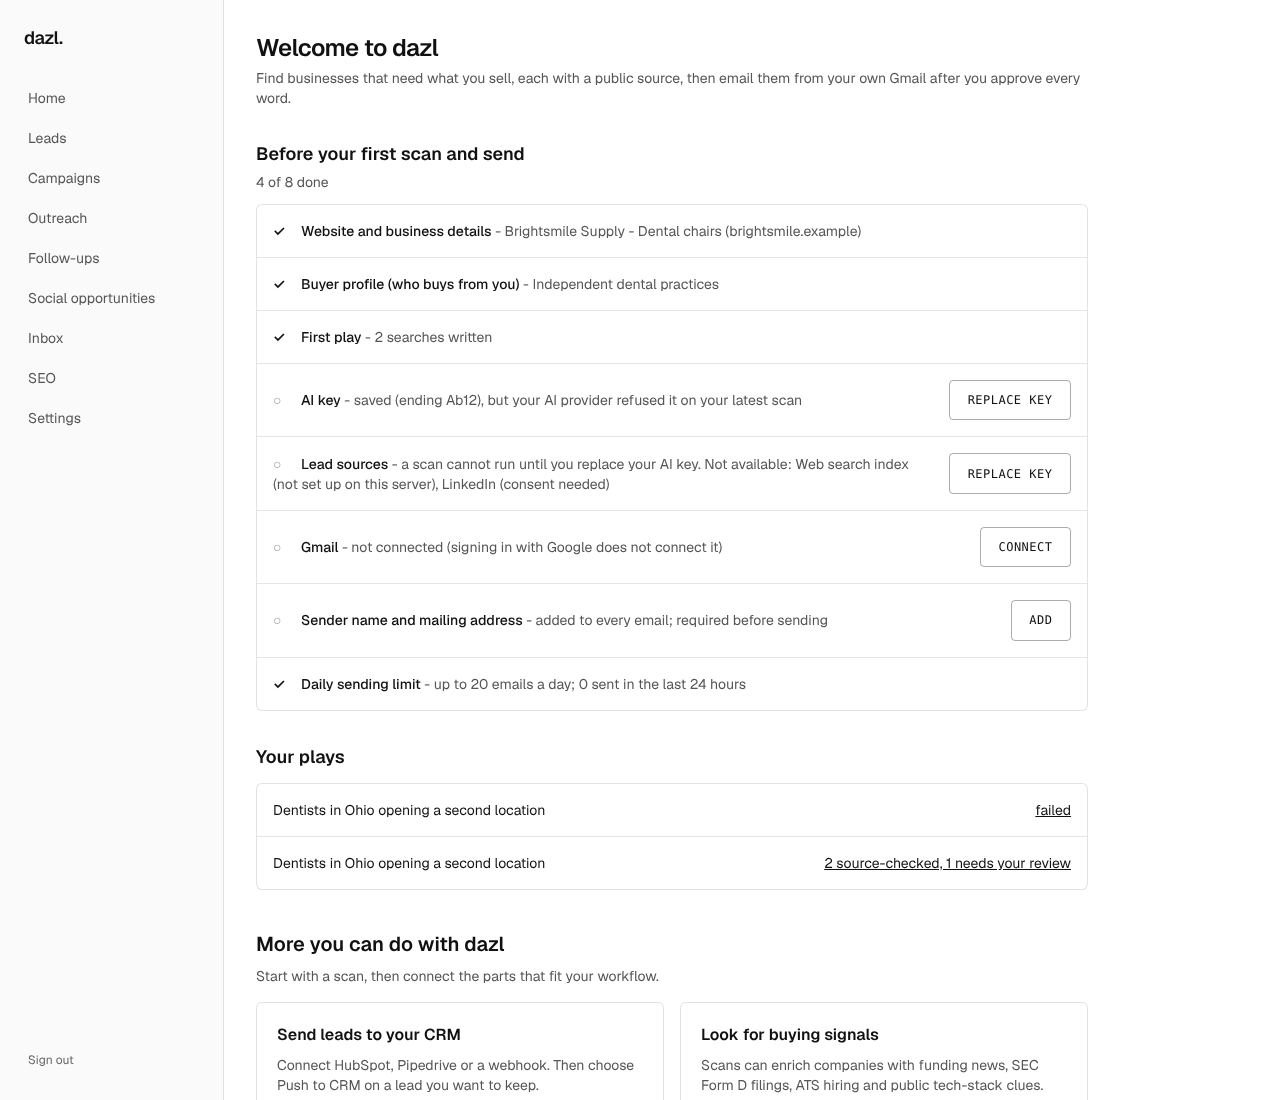
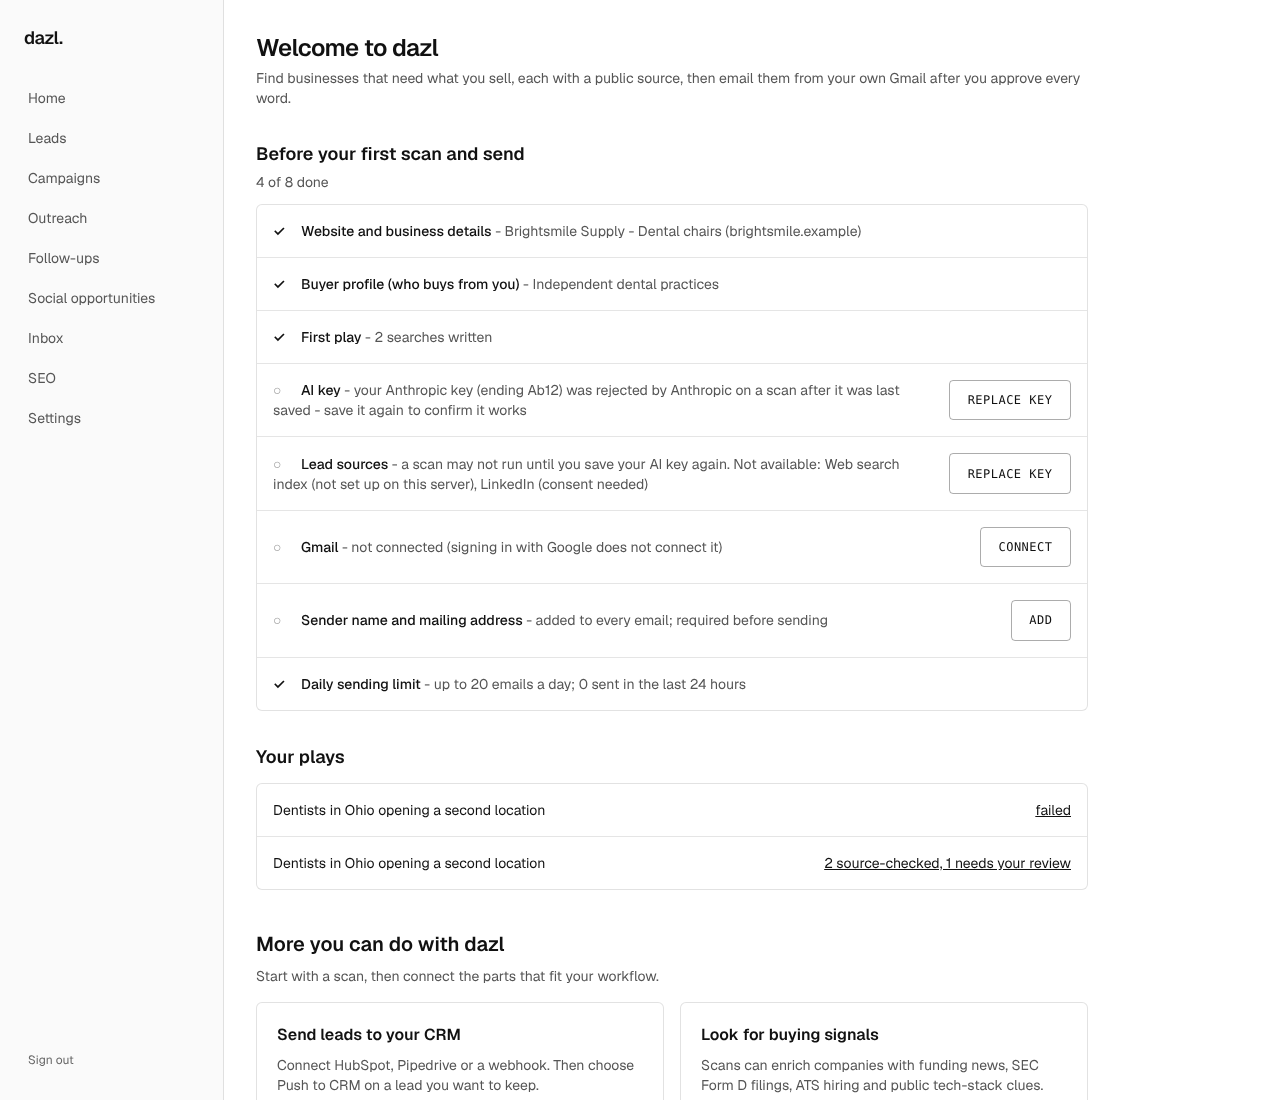
Home readiness: a key rejection clears only on positive acceptance of that same key
The evidence moves server-side (lib/llm/key-evidence.ts, returned read-only by GET /api/settings/llm-key as
`rejection`). A non-trial scan that stopped with key_rejected or key_unreadable stays open until that same key is
accepted: the vendor it used is the newest key that existed when it was created (pickVendor's rule), and only a
re-save of that vendor's key (the provider check) or a later non-trial done scan that provably used that same,
unchanged key clears it. Cancelled or other failed scans, trial scans, and saving another provider's key never do.
Unknown key identity stays open until every current key is saved again, and the wording names no key.

Tests: key-evidence (cancelled/unrelated failures after a rejection, different-vendor re-save with the default
unchanged, same-key re-save, done scans on the same vs another key, trial, unknown identity, legacy trial, other
tenant, read-only); readiness unit and rendered regressions.

Claude-Session: https://claude.ai/code/session_01CafonXdzjwkFYiMRJWtsKo

Changed region(s): [[0.2188, 0.34, 0.7188, 0.4636]]

diff --git a/web/lib/readiness.ts b/web/lib/readiness.ts
@@ -14,6 +14,9 @@ export interface ReadinessInput {
   sources?: ServerSources | null
   // The saved AI keys' status (GET /api/settings/llm-key: vendor, last 4, when the provider accepted it); null when not loaded.
   keys?: { vendor: string; last4: string; validated_at: number }[] | null
+  // From the same read: a scan that stopped on this account's key with no acceptance of that same key since (server-side,
+  // lib/llm/key-evidence.ts; vendor null when the record cannot say which key it was). null when none or not loaded.
+  rejection?: { error: 'key_rejected' | 'key_unreadable'; vendor: string | null } | null
   // The account's social sources (GET /api/settings/advanced); null when not loaded.
   advanced?: Advanced | null
 }
@@ -41,14 +44,19 @@ export function readinessRows(i: ReadinessInput): Row[] {
     : own > 0 ? { id: 'play', label: 'First play', state: 'done', detail: `${own} search${own === 1 ? '' : 'es'} written`, fix: null }
     : { id: 'play', label: 'First play', state: 'todo', detail: 'describe who you want to find, in one sentence', fix: { kind: 'link', href: '/app/leads', label: 'Write a play' } }
   const trialLeft = u?.trial?.funded ? u.trial.remaining ?? 0 : 0
-  // A saved key was accepted by its provider when it was saved. Whether it still works is only known from the latest
-  // finished scan: if that scan ran after the key was last saved and stopped on a key error, the key needs replacing.
-  const savedAt = i.keys?.length ? Math.max(...i.keys.map(k => k.validated_at)) : null
-  const latest = i.jobs?.filter(j => j.status === 'done' || j.status === 'failed').sort((a, b) => b.created_at - a.created_at)[0]
-  const keyError = u?.has_key && savedAt !== null && latest && latest.created_at >= savedAt && (latest.error === 'key_rejected' || latest.error === 'key_unreadable') ? latest.error : null
+  // A saved key was accepted by its provider when it was saved. After that, the server reports a rejection only while no
+  // acceptance of that same key has been recorded since (a re-save of that vendor's key); a later cancelled or failed
+  // scan, or saving another provider's key, never clears it. Without the key status loaded, no claim either way.
+  const rej = u?.has_key ? i.rejection ?? null : null
+  const keyError = rej?.error ?? null
+  const rejKey = rej?.vendor ? i.keys?.find(k => k.vendor === rej.vendor) : undefined
   const last4 = i.keys?.length === 1 ? ` (ending ${i.keys[0].last4})` : ''
+  const which = rejKey ? `your ${vendorName(rejKey.vendor)} key (ending ${rejKey.last4})` : null
+  const rejDetail = !rej ? '' : which
+    ? (rej.error === 'key_rejected' ? `${which} was rejected by ${vendorName(rejKey!.vendor)} on a scan after it was last saved - save it again to confirm it works` : `dazl could not read ${which} on a scan after it was last saved - save it again`)
+    : (rej.error === 'key_rejected' ? 'a scan stopped because its AI key was rejected after your key was last saved - save your key again to confirm it works' : 'a scan could not read its AI key after your key was last saved - save your key again')
   const key: Row = !u ? { id: 'key', label: 'AI key', state: 'unknown', detail: 'could not check', fix: null }
-    : keyError ? { id: 'key', label: 'AI key', state: 'todo', detail: keyError === 'key_rejected' ? `saved${last4}, but your AI provider refused it on your latest scan` : `saved${last4}, but dazl could not read it on your latest scan - save it again`, fix: { kind: 'inline', label: 'Replace key' } }
+    : keyError ? { id: 'key', label: 'AI key', state: 'todo', detail: rejDetail, fix: { kind: 'inline', label: 'Replace key' } }
     : u.has_key ? { id: 'key', label: 'AI key', state: 'done', detail: i.keys?.length ? `saved${last4}; your provider accepted it when it was saved` : 'saved', fix: null }
     // Free searches cover the first scan; the row comes back as a to-do when they run out.
     : trialLeft > 0 ? { id: 'key', label: 'AI key', state: 'done', detail: `using free searches (${trialLeft} left)`, fix: null }
@@ -67,7 +75,7 @@ export function readinessRows(i: ReadinessInput): Row[] {
   const offFix = off.find(r => r.fix)?.fix
   const sources: Row = !core ? { id: 'sources', label: 'Lead sources', state: 'unknown', detail: 'could not check', fix: null }
     // The key row's evidence that the saved key stopped working means web research cannot run either.
-    : keyError ? { id: 'sources', label: 'Lead sources', state: 'todo', detail: `a scan cannot run until you replace your AI key${offText}`, fix: { kind: 'link', href: '/app/settings#model-key', label: 'Replace key' } }
+    : keyError ? { id: 'sources', label: 'Lead sources', state: 'todo', detail: `a scan may not run until you save your AI key again${offText}`, fix: { kind: 'link', href: '/app/settings#model-key', label: 'Replace key' } }
     : !research?.usable ? { id: 'sources', label: 'Lead sources', state: 'todo', detail: `a scan cannot start until you add an AI key${offText}`, fix: research?.fix ? { kind: 'link', href: research.fix.href, label: research.fix.label } : null }
     : { id: 'sources', label: 'Lead sources', state: 'done', detail: `a scan can use ${usableSources.map(r => r.label).join(', ')}${offText}`, fix: offFix ? { kind: 'link', href: offFix.href, label: offFix.label } : null }
   const gmail: Row = !o ? { id: 'gmail', label: 'Gmail', state: 'unknown', detail: 'could not check', fix: null }
@@ -83,6 +91,8 @@ export function readinessRows(i: ReadinessInput): Row[] {
     : { id: 'limit', label: 'Daily sending limit', state: 'done', detail: `up to ${cap} emails a day${used !== null ? `; ${used} sent in the last 24 hours` : ''}`, fix: null }
   return [site, brain, play, key, sources, gmail, sender, limit]
 }
+
+const vendorName = (v: string) => v === 'openai' ? 'OpenAI' : v === 'anthropic' ? 'Anthropic' : v
 
 // Sends counted against the cap: the whole account budget when reported, else first touches only (a lower bound).
 function sentToday(o: ReadinessInput['outreach']): number | null {

diff --git a/web/test/readiness.test.ts b/web/test/readiness.test.ts
@@ -122,20 +122,24 @@ test('brain: done only with a saved buyer profile (who or a summary); the fix re
 })
 
 // Home readiness: "AI key valid" and truthful source availability.
-test('AI key: saved and accepted when saved is done; a later scan that stopped on a key error makes it a to-do', () => {
-  const key = (keys: object[] | null, jobs: object[] | null) => byId(readinessRows({ profile: null, usage: { has_key: true }, outreach: null, keys: keys as never, jobs: jobs as never })).key
+// Instinct #275: the evidence (and what clears it) is server-side and key-specific (test/key-evidence.test.ts); Home only
+// reports it, and never infers acceptance from other scans or another provider's key.
+test('AI key: done with no open rejection; a server-reported rejection of a known key names that key; unknown says so', () => {
+  const key = (keys: object[] | null, rejection: object | null, jobs: object[] = []) => byId(readinessRows({ profile: null, usage: { has_key: true }, outreach: null, keys: keys as never, rejection: rejection as never, jobs: jobs as never })).key
   const K = [{ vendor: 'anthropic', last4: 'Ab12', validated_at: 1000 }]
+  const K2 = [...K, { vendor: 'openai', last4: 'Zz99', validated_at: 5000 }]
+  assert.deepEqual(key(K, null), { id: 'key', label: 'AI key', state: 'done', detail: 'saved (ending Ab12); your provider accepted it when it was saved', fix: null })
+  const refused = key(K2, { error: 'key_rejected', vendor: 'anthropic' })
+  assert.deepEqual([refused.state, refused.detail, refused.fix], ['todo', 'your Anthropic key (ending Ab12) was rejected by Anthropic on a scan after it was last saved - save it again to confirm it works', { kind: 'inline', label: 'Replace key' }], "the other provider's newer save does not clear it")
+  assert.equal(key(K, { error: 'key_unreadable', vendor: 'anthropic' }).detail, 'dazl could not read your Anthropic key (ending Ab12) on a scan after it was last saved - save it again')
+  assert.equal(key(K, { error: 'key_rejected', vendor: null }).detail, 'a scan stopped because its AI key was rejected after your key was last saved - save your key again to confirm it works', 'unknown key identity: no key is named')
+  // Home never decides acceptance itself: a later done or cancelled scan in the jobs list changes nothing.
   const job = (created_at: number, status: string, error: string | null) => ({ id: String(created_at), status, error, query: 'q', csv_domain: null, created_at, lead_count: 0 })
-  assert.deepEqual(key(K, []), { id: 'key', label: 'AI key', state: 'done', detail: 'saved (ending Ab12); your provider accepted it when it was saved', fix: null })
-  const refused = key(K, [job(900, 'done', null), job(2000, 'failed', 'key_rejected')])
-  assert.deepEqual([refused.state, refused.detail, refused.fix], ['todo', 'saved (ending Ab12), but your AI provider refused it on your latest scan', { kind: 'inline', label: 'Replace key' }])
-  assert.match(key(K, [job(2000, 'failed', 'key_unreadable')]).detail, /could not read it on your latest scan - save it again/)
-  assert.equal(key(K, [job(500, 'failed', 'key_rejected')]).state, 'done', 'the key was saved again after that scan')
-  assert.equal(key(K, [job(2000, 'failed', 'key_rejected'), job(3000, 'done', null)]).state, 'done', 'a later scan worked')
-  assert.equal(key(K, [job(2000, 'failed', 'key_rejected'), job(3000, 'running', null)]).state, 'todo', 'a running scan proves nothing yet')
-  assert.equal(key(null, [job(2000, 'failed', 'key_rejected')]).detail, 'saved', 'key status not loaded: no claim either way')
-  const src = byId(readinessRows({ profile: null, usage: { has_key: true }, outreach: null, keys: K as never, jobs: [job(2000, 'failed', 'key_rejected')] as never, sources: { web_index: true, news: true, websites: true } })).sources
-  assert.deepEqual([src.state, src.detail, src.fix], ['todo', 'a scan cannot run until you replace your AI key', { kind: 'link', href: '/app/settings#model-key', label: 'Replace key' }], 'a refused key is not listed as a usable source')
+  assert.equal(key(K, { error: 'key_rejected', vendor: 'anthropic' }, [job(2000, 'failed', 'key_rejected'), job(3000, 'failed', 'cancelled'), job(4000, 'done', null)]).state, 'todo')
+  assert.equal(key(K, null, [job(2000, 'failed', 'key_rejected')]).state, 'done', 'the jobs list alone is not evidence; the server read is')
+  assert.equal(key(null, null).detail, 'saved', 'key status not loaded: no claim either way')
+  const src = byId(readinessRows({ profile: null, usage: { has_key: true }, outreach: null, keys: K as never, rejection: { error: 'key_rejected', vendor: 'anthropic' }, sources: { web_index: true, news: true, websites: true } })).sources
+  assert.deepEqual([src.state, src.detail, src.fix], ['todo', 'a scan may not run until you save your AI key again', { kind: 'link', href: '/app/settings#model-key', label: 'Replace key' }], 'a rejected key is not listed as a usable source')
 })
 
 test('lead sources: only usable sources are named as usable; social sources that are not set up are listed with their reason and fix', () => {

diff --git a/web/test/key-evidence.test.ts b/web/test/key-evidence.test.ts
@@ -1,0 +1,84 @@
+import { test } from 'node:test'
+import assert from 'node:assert/strict'
+import Database from 'better-sqlite3'
+import { migrateScan, createJob } from '../lib/scan/store.ts'
+import { migrateKeys } from '../lib/llm/key-store.ts'
+import { openKeyRejection } from '../lib/llm/key-evidence.ts'
+
+// Instinct #275: a rejection clears only on positive acceptance of that same key (provider- and key-specific).
+function fixture() {
+  const db = new Database(':memory:')
+  migrateScan(db); migrateKeys(db)
+  const key = (vendor: string, created: number, validated = created, tenant = 'A') =>
+    db.prepare("INSERT INTO tenant_llm_keys (tenant_id, vendor, ciphertext, last4, validated_at, created_at) VALUES (?, ?, 'x', 'ab12', ?, ?) ON CONFLICT(tenant_id, vendor) DO UPDATE SET validated_at = excluded.validated_at").run(tenant, vendor, validated, created)
+  const resave = (vendor: string, at: number) => db.prepare('UPDATE tenant_llm_keys SET validated_at = ? WHERE tenant_id = ? AND vendor = ?').run(at, 'A', vendor)
+  const scan = (created: number, status: 'done' | 'failed', error: string | null, o: { funded_by?: string; tenant?: string; ended?: number } = {}) => {
+    const id = createJob(db, o.tenant ?? 'A', { business_name: 'x', industry: 'test', location: 'test' })
+    db.prepare("UPDATE scan_jobs SET status='running' WHERE id=?").run(id)
+    db.prepare('UPDATE scan_jobs SET status=?, error=?, created_at=?, finished_at=?, funded_by=? WHERE id=?').run(status, error, created, o.ended ?? created + 10, o.funded_by ?? 'user', id)
+    return id
+  }
+  const snap = () => JSON.stringify([db.prepare('SELECT * FROM scan_jobs ORDER BY id').all(), db.prepare('SELECT * FROM tenant_llm_keys ORDER BY vendor').all()])
+  return { db, key, resave, scan, snap, rej: () => openKeyRejection(db, 'A') }
+}
+
+test('a rejection stays open through later cancelled and unrelated failed scans', () => {
+  const f = fixture()
+  f.key('anthropic', 100)
+  f.scan(200, 'failed', 'key_rejected')
+  assert.deepEqual(f.rej(), { error: 'key_rejected', vendor: 'anthropic' })
+  f.scan(300, 'failed', 'cancelled'); f.scan(400, 'failed', 'budget_stopped'); f.scan(500, 'failed', 'upstream 502'); f.scan(600, 'failed', 'no_candidates')
+  assert.deepEqual(f.rej(), { error: 'key_rejected', vendor: 'anthropic' }, 'none of these is acceptance of the key')
+})
+
+test("re-saving a different provider's key does not clear it while the rejected key is still the one scans use", () => {
+  const f = fixture()
+  f.key('openai', 100); f.key('anthropic', 150) // anthropic is newest by created_at, so scans use it
+  f.scan(200, 'failed', 'key_rejected')
+  f.resave('openai', 300) // updates validated_at only; created_at order (and the key scans use) is unchanged
+  assert.deepEqual(f.rej(), { error: 'key_rejected', vendor: 'anthropic' })
+  f.resave('anthropic', 400)
+  assert.equal(f.rej(), null, 'saving that same key again (the provider accepted it) clears it')
+})
+
+test('a later done scan clears it only when it provably used that same, unchanged key; trial scans never count', () => {
+  const f = fixture()
+  f.key('anthropic', 100)
+  f.scan(200, 'failed', 'key_rejected')
+  f.scan(300, 'done', null, { funded_by: 'trial' })
+  assert.notEqual(f.rej(), null, 'a free-search scan says nothing about this key')
+  f.scan(400, 'done', null)
+  assert.equal(f.rej(), null, 'the same key, not re-saved, finished a scan after the rejection')
+})
+
+test('a done scan on another provider, or before the rejection, does not clear it', () => {
+  const f = fixture()
+  f.key('anthropic', 100)
+  f.scan(150, 'done', null)
+  f.scan(200, 'failed', 'key_unreadable')
+  assert.deepEqual(f.rej(), { error: 'key_unreadable', vendor: 'anthropic' })
+  f.key('openai', 300) // now the newest key: scans use openai, the anthropic rejection no longer bears on them
+  assert.equal(f.rej(), null)
+  f.scan(400, 'failed', 'key_rejected')
+  assert.deepEqual(f.rej(), { error: 'key_rejected', vendor: 'openai' })
+})
+
+test('unknown key identity: open until every current key is saved again; trial rejections and other tenants are ignored', () => {
+  const f = fixture()
+  f.scan(200, 'failed', 'key_rejected', { ended: 500 }) // no key existed when it was created: which key is unknown
+  f.key('anthropic', 300)                               // added while it ran
+  assert.deepEqual(f.rej(), { error: 'key_rejected', vendor: null })
+  f.resave('anthropic', 600)
+  assert.equal(f.rej(), null)
+  f.scan(700, 'failed', 'key_rejected', { funded_by: 'trial' })
+  f.scan(700, 'failed', 'key_rejected', { tenant: 'B' })
+  assert.equal(f.rej(), null)
+  const before = f.snap(); f.rej(); assert.equal(f.snap(), before, 'read-only')
+})
+
+test('a legacy trial rejection (funded_by defaulted to user, before any key) is cleared by the key saved afterwards', () => {
+  const f = fixture()
+  f.scan(100, 'failed', 'key_rejected')
+  f.key('anthropic', 200)
+  assert.equal(f.rej(), null)
+})

diff --git a/web/lib/llm/key-evidence.ts b/web/lib/llm/key-evidence.ts
@@ -1,0 +1,38 @@
+import type Database from 'better-sqlite3'
+
+// Server-only, read-only. Whether a saved AI key has open negative evidence: a scan that stopped because the key was
+// rejected (key_rejected) or could not be read (key_unreadable), with no positive acceptance of THAT key since.
+//
+// Identity, from the records only:
+// - Trial-funded scans (funded_by 'trial') ran on the shared free-search key and are never evidence about the user's.
+// - A scan uses the account's newest saved key (pickVendor: created_at desc). So the vendor a scan used is known only
+//   when a key row existed before the scan was created: the newest of those. A key added later was not used by it.
+//   Otherwise (no such row, e.g. a key deleted since or a legacy trial row) the vendor is unknown (null).
+// - Positive, key-specific acceptance: the provider check when that vendor's key is saved (validated_at, refreshed by
+//   a re-save), or a later non-trial scan that finished 'done' and provably used that same key (its vendor by the rule
+//   above, and the key not re-saved since that scan started). A cancelled or otherwise failed scan proves nothing.
+// A rejection is open until such acceptance after the scan finished; with an unknown vendor, until every current key
+// has been saved again. Only rejections that bear on the key scans use now (the newest key) or
+// whose key is unknown are reported.
+export interface KeyEvidence { error: 'key_rejected' | 'key_unreadable'; vendor: string | null }
+
+export function openKeyRejection(db: Database.Database, tenantId: string): KeyEvidence | null {
+  const keys = db.prepare('SELECT vendor, created_at, validated_at FROM tenant_llm_keys WHERE tenant_id = ? ORDER BY created_at DESC, rowid DESC').all(tenantId) as { vendor: string; created_at: number; validated_at: number }[]
+  if (!keys.length) return null
+  const selected = keys[0].vendor
+  const done = db.prepare(`SELECT created_at FROM scan_jobs WHERE user_id = ? AND status = 'done' AND funded_by != 'trial'`).all(tenantId) as { created_at: number }[]
+  const usedBy = (createdAt: number) => keys.find(k => k.created_at <= createdAt)?.vendor ?? null
+  const failures = db.prepare(`SELECT error, created_at, COALESCE(finished_at, created_at) AS ended FROM scan_jobs
+    WHERE user_id = ? AND status = 'failed' AND error IN ('key_rejected', 'key_unreadable') AND funded_by != 'trial'
+    ORDER BY created_at DESC, rowid DESC`).all(tenantId) as { error: KeyEvidence['error']; created_at: number; ended: number }[]
+  for (const f of failures) {
+    const used = usedBy(f.created_at)
+    if (used !== null && used !== selected) continue // a key scans no longer use
+    const key = used !== null ? keys.find(k => k.vendor === used)! : null
+    const open = key
+      ? key.validated_at <= f.ended && !done.some(d => d.created_at > f.ended && usedBy(d.created_at) === key.vendor && key.validated_at <= d.created_at)
+      : keys.some(k => k.validated_at <= f.ended)
+    if (open) return { error: f.error, vendor: used }
+  }
+  return null
+}

diff --git a/web/app/app/readiness.tsx b/web/app/app/readiness.tsx
@@ -19,7 +19,7 @@ export default function Readiness() {
   async function load() {
     const get = (u: string) => fetch(u).then(r => r.ok ? r.json() : null).catch(() => null)
     const [profile, usage, outreach, jobs, sources, keys, advanced] = await Promise.all([get('/api/settings/profile'), get('/api/usage'), get('/api/outreach/settings'), get('/api/scan/jobs'), get('/api/scan/sources'), get('/api/settings/llm-key'), get('/api/settings/advanced')])
-    setInput({ profile, usage, outreach, jobs: jobs?.jobs ?? null, sources, keys: Array.isArray(keys?.keys) ? keys.keys : null, advanced: advanced && Array.isArray(advanced.platforms) ? advanced : null })
+    setInput({ profile, usage, outreach, jobs: jobs?.jobs ?? null, sources, keys: Array.isArray(keys?.keys) ? keys.keys : null, rejection: Array.isArray(keys?.keys) && keys.rejection && typeof keys.rejection === 'object' ? keys.rejection : null, advanced: advanced && Array.isArray(advanced.platforms) ? advanced : null })
     setPlays(jobs?.jobs ? recentPlays(jobs.jobs) : null)
     if (profile) setSite({ website: String(profile.website ?? ''), sells: String(profile.sells ?? ''), business_name: String(profile.business_name ?? '') })
   }

diff --git a/web/app/api/settings/llm-key/route.ts b/web/app/api/settings/llm-key/route.ts
@@ -1,15 +1,18 @@
 import { NextRequest, NextResponse } from 'next/server'
 import { getScanDb, requireUser } from '@/lib/scan/service'
 import { deleteKey, keyStatus, saveKey } from '@/lib/llm/key-store'
+import { openKeyRejection } from '@/lib/llm/key-evidence'
 import { isVendor, looksLikeKey, validateKey } from '@/lib/llm/vendors'
 import { rateLimit } from '@/lib/rate-limit'
 import { sameOriginJson } from '@/lib/same-origin'
 
-// Status only: vendor, last 4 characters and when it was validated. The key itself is never returned.
+// Status only: vendor, last 4 characters and when it was validated. The key itself is never returned. rejection: a later
+// scan that stopped on this account's key with no acceptance of that same key since (lib/llm/key-evidence.ts); read-only.
 export async function GET() {
   const user = await requireUser()
   if (!user) return NextResponse.json({ error: 'Not signed in' }, { status: 401 })
-  return NextResponse.json({ keys: keyStatus(getScanDb(), user.id) })
+  const db = getScanDb()
+  return NextResponse.json({ keys: keyStatus(db, user.id), rejection: openKeyRejection(db, user.id) })
 }
 
 export async function PUT(req: NextRequest) {
